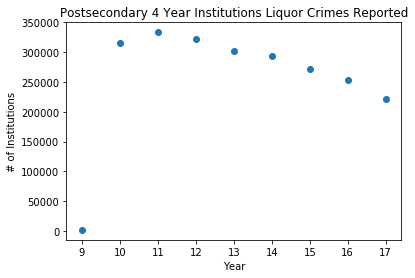
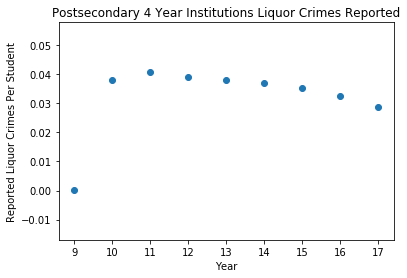
Updated visualizations.

diff --git a/data_visualizations.md b/data_visualizations.md
@@ -8,13 +8,14 @@ permalink: /data-visualizations
 
 The following visualizations were generated from the Clery Act starting from 2009 to 2017.
 
+## General Crimes
+
+![General Crimes](/images/General_Crimes.png)
+
 ## Liquor Crimes on Campus
 
 ![Liquor Crimes](/images/Liquor_Crimes.png)
 
 ## Rape Crimes on Campus
 
-![Rape Crimes](/images/Rape_Crimes_Reported.png)
-
-
-{% include rape_stats.html %}
+![Rape Crimes](/images/Rape_Crimes.png)
